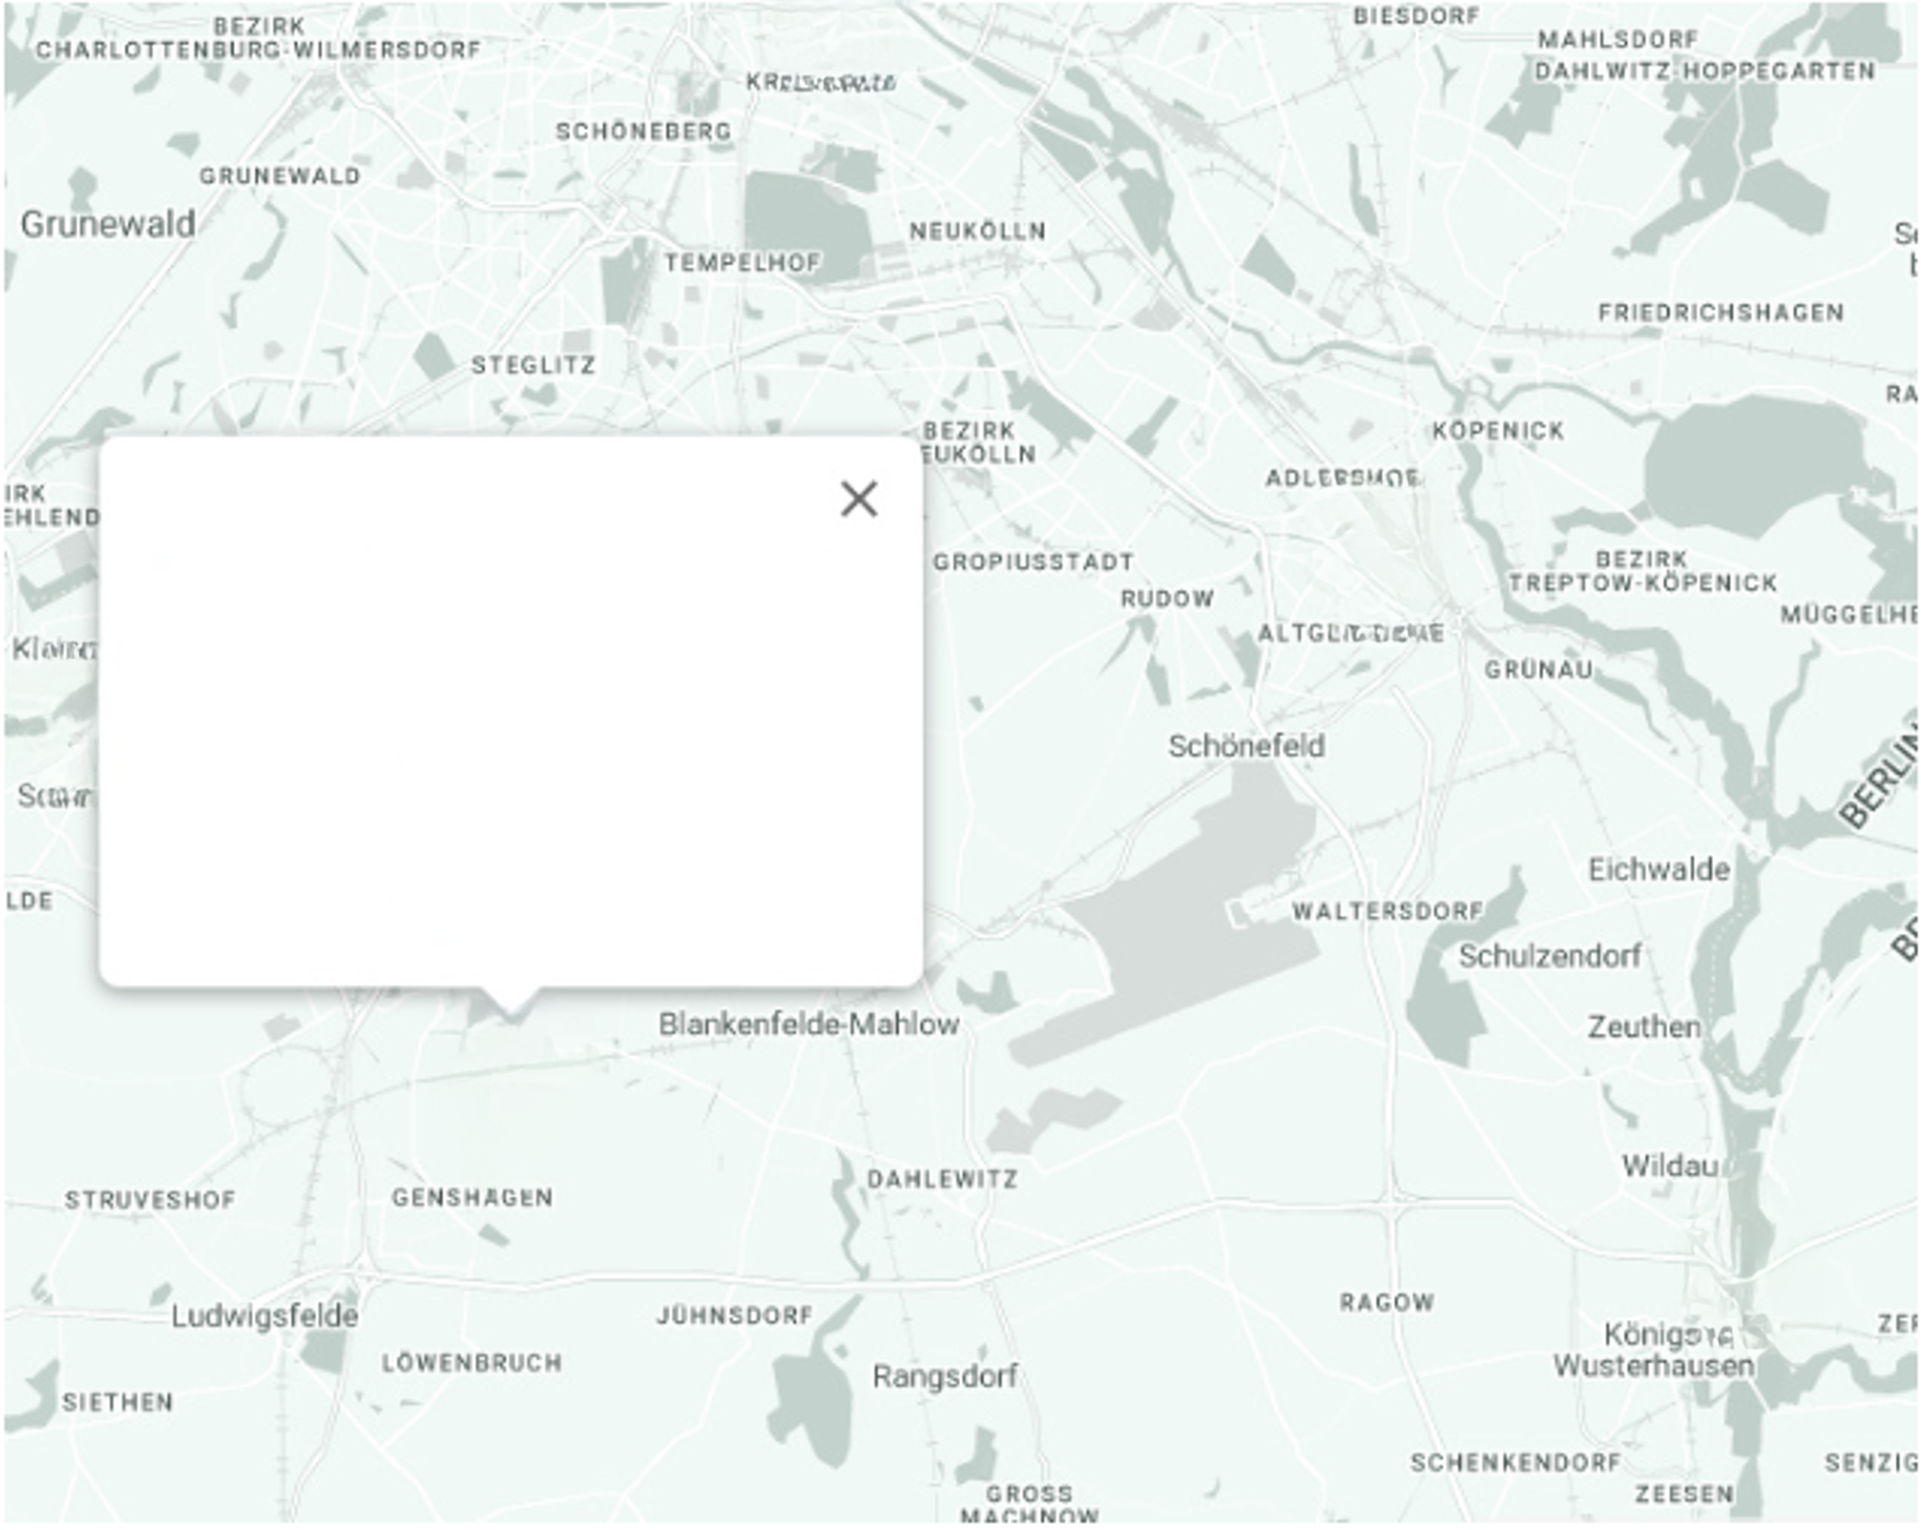
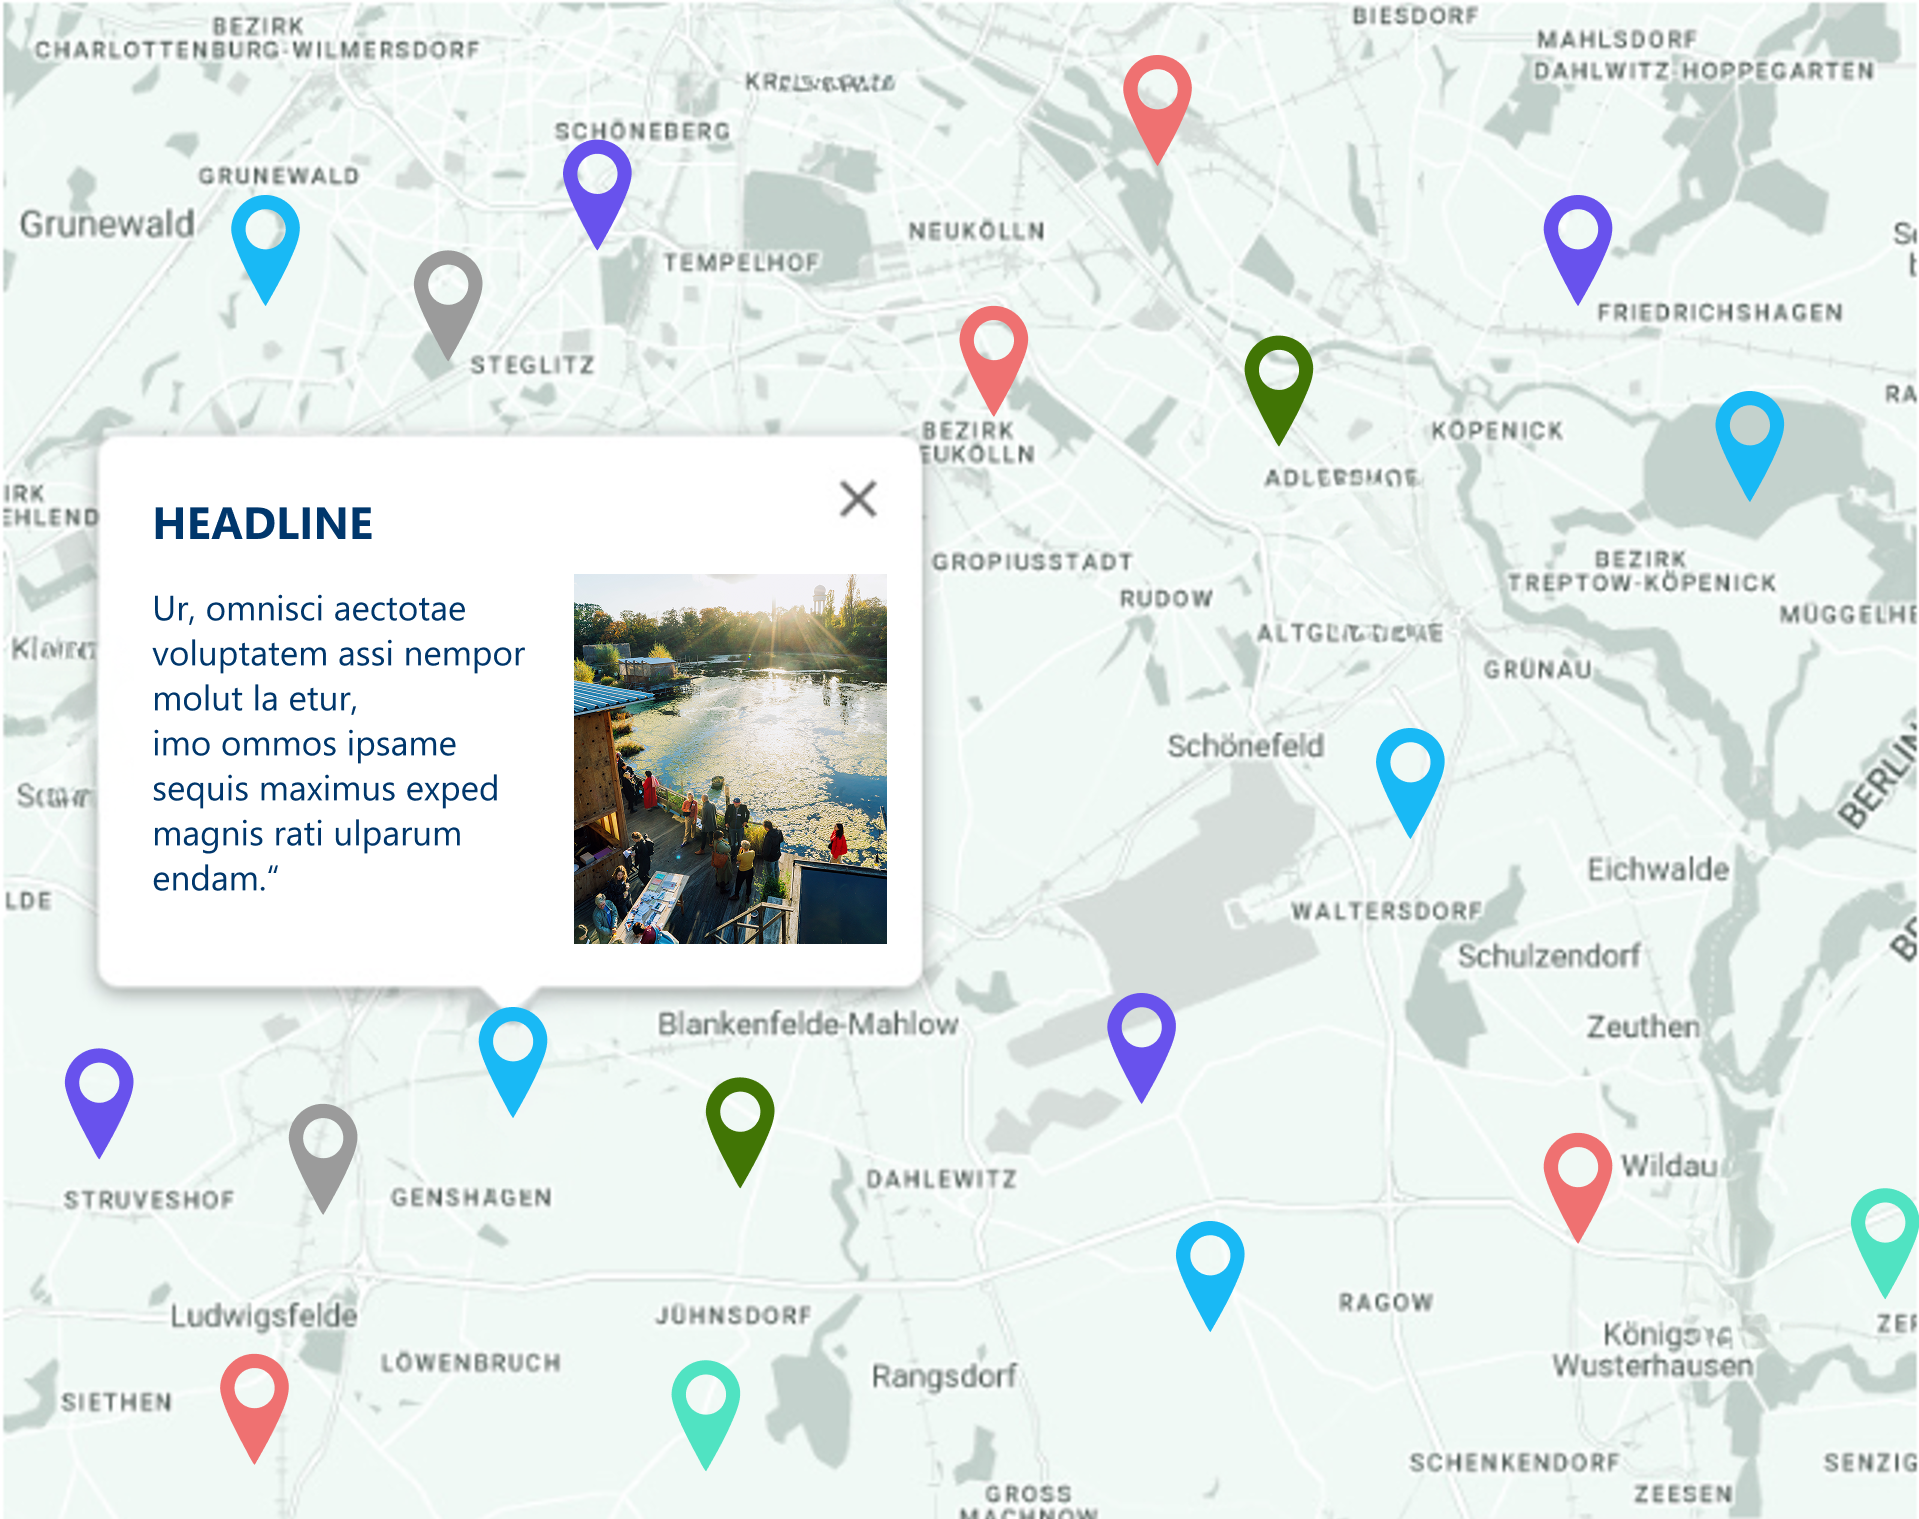
up

diff --git a/css/style.css b/css/style.css
@@ -57,6 +57,8 @@ header .navbar{
     font-weight: 700;
     line-height:1;
     padding:0;
+    position: relative;
+    display: inline-flex;
 }
 .offcanvas .nav-link:after{
     display:none;
@@ -314,7 +316,31 @@ header .navbar{
 .event-location {
     text-align: right;
 }
-.contact_map .gx-x
+.page3.contact_map .gx-x{
+    --bs-gutter-x:4.39rem;
+}
+.mapping{
+    background-color: #003865;
+    padding:calc(var(--ratio-section)*10.5rem) 0 calc(var(--ratio-section)*13rem);
+}
+.list_mapping{
+    --bs-gutter-y:2rem;
+}
+.list_mapping .item{
+    font-weight: 700;
+    line-height: normal;
+    display:flex;
+    align-items: start;
+}
+.list_mapping .item .before{
+    width:calc(var(--ratio-section)*4.5625rem);
+    height:calc(var(--ratio-section)*2.8125rem);
+    object-fit: contain;
+    margin-right:calc(var(--ratio-section)*1rem);
+}
+.list_mapping .item span{
+    display:inline-block;
+}
 /* mobile */
 @media (max-width: 991.98px) {
     :root {
@@ -408,6 +434,12 @@ header .navbar{
     .hero2{}
     .page3 .water_image_container{
         width: 42.43144rem;
+    }
+    .mapping .container{
+        width:93.75rem;
+    }
+    .list_mapping .item{
+        font-size: 94%;
     }
 }
 

diff --git a/index3.php b/index3.php
@@ -46,116 +46,22 @@
             </div>
         </div>
     </section>
-
-    <section class="green-background text-white">
+    <section class="mapping text-white">
         <div class="container">
-            <div class="row g-lg-5 g-4">
-                <div class="col-md-6">
-                    <h2 class="white-text mb-lg-5 mb-4">HEALDINE</h2>
-                    <div class="white-text pe-lg-5 me-lg-5">
-                        <p>Ur, omnisci aectotae voluptatem assi nempor molut la etur, imo ommos ipsame sequis maximus exped magnis rati ulparum endam. Ur, omnisci aectotae voluptatem assi nempor molut la etur, imo ommos ipsame sequis maximus exped magnis rati ulparum endam.</p>
-                    </div>
-                </div>
-                <div class="col-md-6">
-                    <div class="video-container">
-                        <div class="ratio ratio-16x9 bg-black">
-                            <video width="100%" height="100%" controls="" poster="images/Video_Placeholder.png">
-                                <source src="https://www.w3schools.com/html/mov_bbb.mp4" type="video/mp4">
-                                Your browser does not support the video tag.
-                            </video>
-                        </div>
-                    </div>
-                </div>
+            <h2 class="mb-3">MAPPING</h2>
+            <h3 class="fw-normal mb-lg-5 mb-4 pb-lg-3 pb-2">ON WATER verbindet Wasser-Wissen aus Berlin. Orte des Wassers werden sichtbar gemacht. Die "WasserWissen-Orte" wurden durch Dr. Friederike Landau-Donelly erarbeitet.</h3>
+            <div class="list_mapping list-unstyled row gx-0 gy-y row-cols-1 row-cols-lg-3">
+                <a href="#" class="item"><img src="images/icon_wasserwissen.png" alt="" class="before"><span>WasserWissen-Orte</span></a>
+                <a href="#" class="item"><img src="images/icon_parcours.png" alt="" class="before"><span>PARCOURS-Veranstaltungen</span></a>
+                <a href="#" class="item"><img src="images/icon_weitere1.png" alt="" class="before"><span>Weitere Orte</span></a>
+                <a href="#" class="item"><img src="images/icon_verbundpartnerinnen.png" alt="" class="before"><span>Verbundpartnerinnen der Berlin University Alliance</span></a>
+                <a href="#" class="item"><img src="images/icon_dialog.png" alt="" class="before"><span>DIALOG-Veranstaltungen</span></a>
+                <a href="#" class="item"><img src="images/icon_weitere2.png" alt="" class="before"><span>Weitere Orte</span></a>
             </div>
         </div>
     </section>
-
-    <section class="section_table">
-        <div class="container">
-            <h2 class="text-primary mb-5">VERANSTALTUNGEN</h2>
-            <p>Sehen Sie hier alle ON WATER-Veranstaltungen im Überblick.</p>
-            <div class="table-responsive">
-            <table class="event-table">
-                <tbody>
-                <tr>
-                    <td>
-                        <div class="event-title">VERANSTALTUNG</div>
-                        <div class="event-subtitle">UNTERTITEL DER VERANSTALTUNG</div>
-                    </td>
-                    <td class="event-date">03. - 04. Mai 2025</td>
-                    <td class="event-location">VERANSTALTUNGSORT</td>
-                </tr>
-                <tr>
-                    <td>
-                        <div class="event-title">VERANSTALTUNG</div>
-                        <div class="event-subtitle">UNTERTITEL DER VERANSTALTUNG</div>
-                    </td>
-                    <td class="event-date">20. - 22. Juni 2025</td>
-                    <td class="event-location">VERANSTALTUNGSORT</td>
-                </tr>
-                <tr>
-                    <td>
-                        <div class="event-title">VERANSTALTUNG</div>
-                        <div class="event-subtitle">UNTERTITEL DER VERANSTALTUNG</div>
-                    </td>
-                    <td class="event-date">23. Oktober 2025</td>
-                    <td class="event-location">VERANSTALTUNGSORT</td>
-                </tr>
-                <tr>
-                    <td>
-                        <div class="event-title">VERANSTALTUNG</div>
-                        <div class="event-subtitle">UNTERTITEL DER VERANSTALTUNG</div>
-                    </td>
-                    <td class="event-date">02. November 2025</td>
-                    <td class="event-location">VERANSTALTUNGSORT</td>
-                </tr>
-                <tr>
-                    <td>
-                        <div class="event-title">VERANSTALTUNG</div>
-                        <div class="event-subtitle">UNTERTITEL DER VERANSTALTUNG</div>
-                    </td>
-                    <td class="event-date">23. Oktober 2025</td>
-                    <td class="event-location">VERANSTALTUNGSORT</td>
-                </tr>
-                <tr>
-                    <td>
-                        <div class="event-title">VERANSTALTUNG</div>
-                        <div class="event-subtitle">UNTERTITEL DER VERANSTALTUNG</div>
-                    </td>
-                    <td class="event-date">02. November 2025</td>
-                    <td class="event-location">VERANSTALTUNGSORT</td>
-                </tr>
-                <tr>
-                    <td>
-                        <div class="event-title">VERANSTALTUNG</div>
-                        <div class="event-subtitle">UNTERTITEL DER VERANSTALTUNG</div>
-                    </td>
-                    <td class="event-date">02. November 2025</td>
-                    <td class="event-location">VERANSTALTUNGSORT</td>
-                </tr>
-                <tr>
-                    <td>
-                        <div class="event-title">VERANSTALTUNG</div>
-                        <div class="event-subtitle">UNTERTITEL DER VERANSTALTUNG</div>
-                    </td>
-                    <td class="event-date">23. Oktober 2025</td>
-                    <td class="event-location">VERANSTALTUNGSORT</td>
-                </tr>
-                <tr>
-                    <td>
-                        <div class="event-title">VERANSTALTUNG</div>
-                        <div class="event-subtitle">UNTERTITEL DER VERANSTALTUNG</div>
-                    </td>
-                    <td class="event-date">02. November 2025</td>
-                    <td class="event-location">VERANSTALTUNGSORT</td>
-                </tr>
-                </tbody>
-            </table>
-            </div>
-        </div>
-        <div class="wave">
-            <img class="w-100" src="images/wave.png" alt="">
-        </div>
+    <section class="maps">
+        <img class="w-100" src="images/maps_2.png" alt="">
     </section>
 </main>
 <?php include 'footer.php'; ?>
